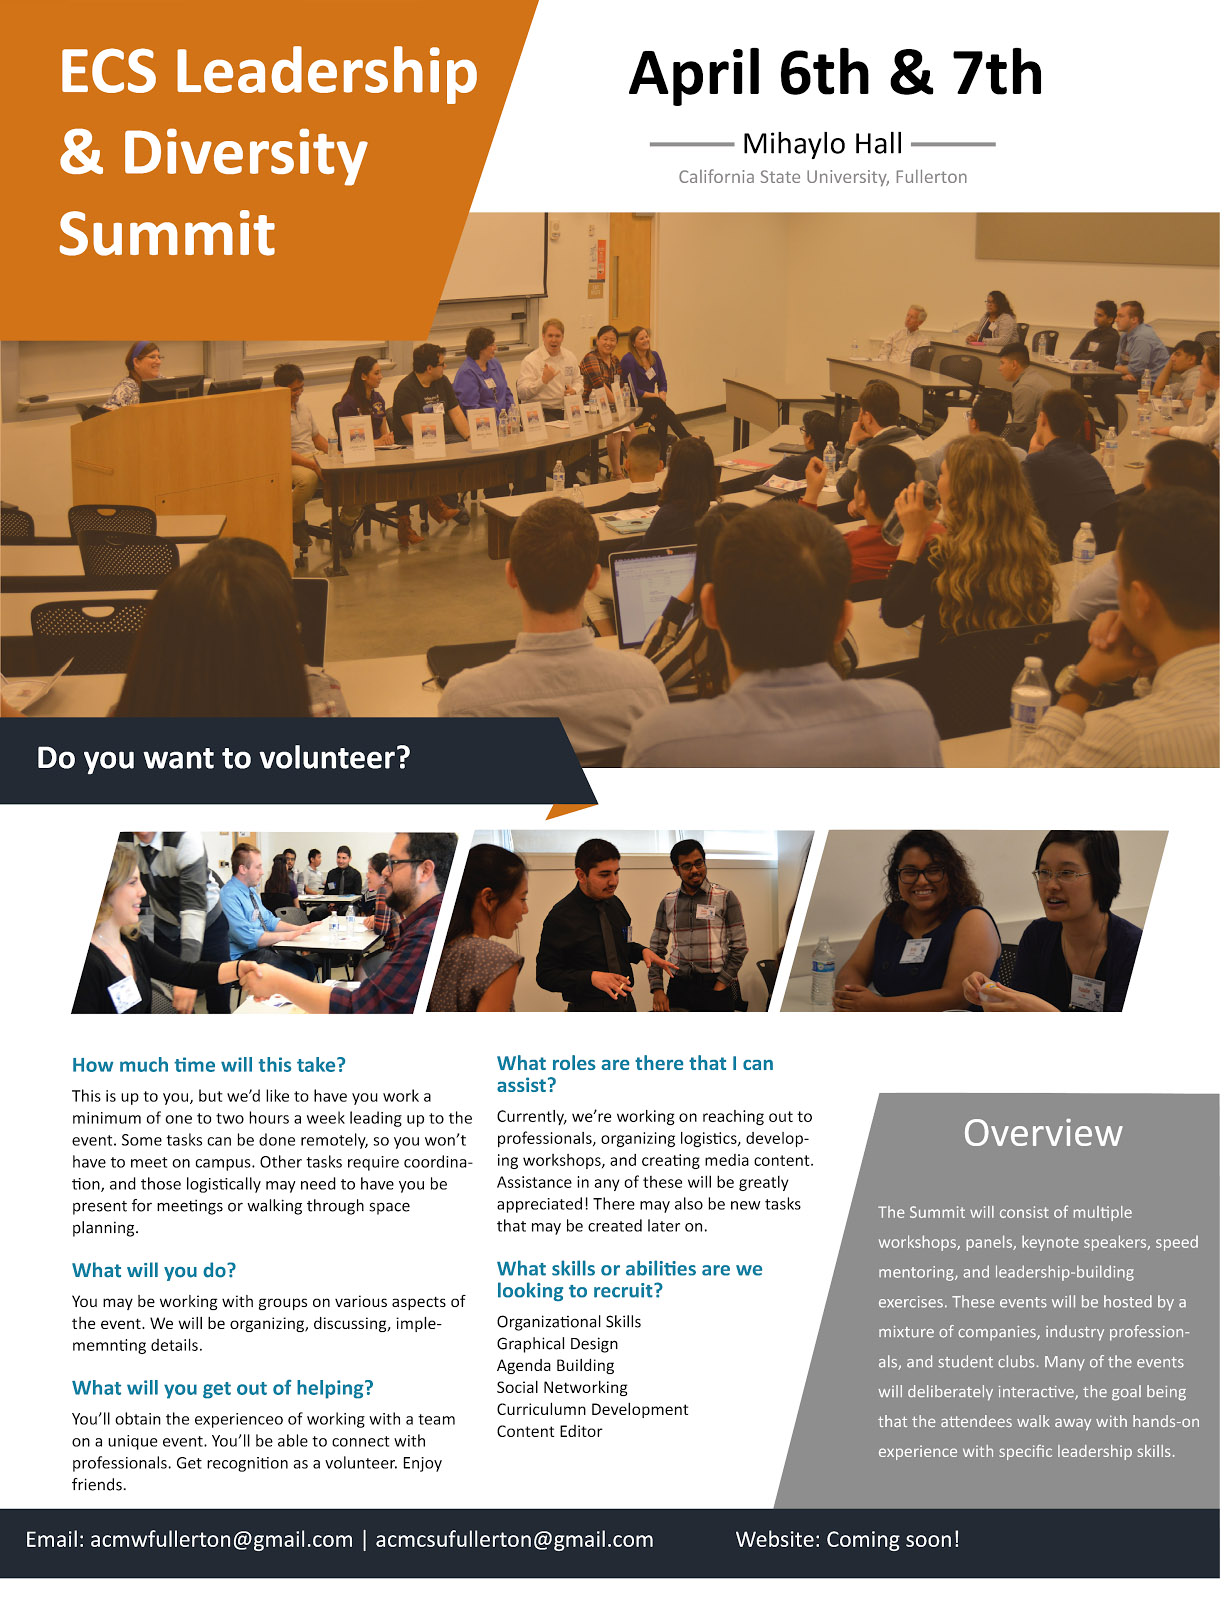
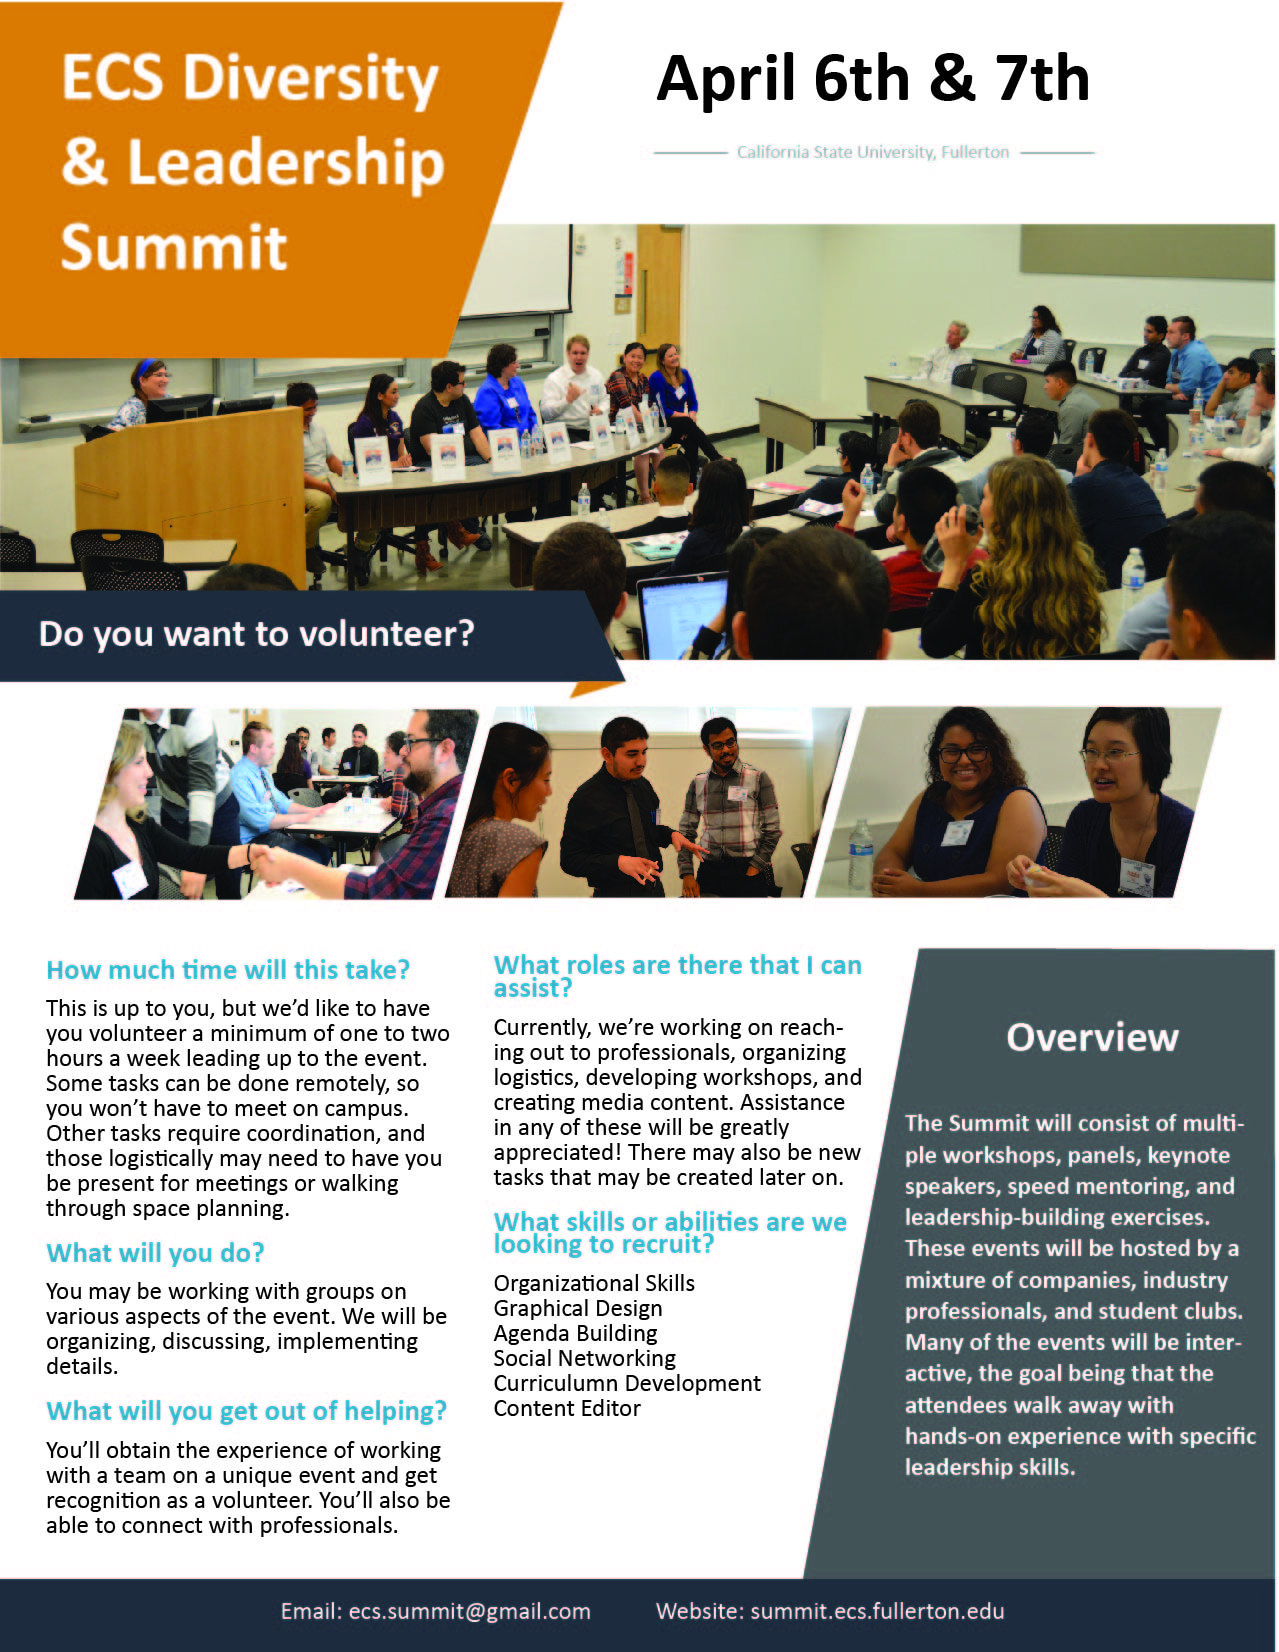
changed L and D to D and L. Replaced Volunteer flyer.

diff --git a/src/containers/home/index.js b/src/containers/home/index.js
@@ -64,7 +64,7 @@ const Home = () => (
         <div className="uk-child-width-1-1@s uk-text-center uk-grid-collapse uk-article" uk-grid="">
     <div>
     <p>
-    <h1 className="uk-article-title uk-light"><span>ECS Leadership and Diversity Summit</span></h1>
+    <h1 className="uk-article-title uk-light"><span>ECS Diversity and Leadership Summit</span></h1>
     </p>
     </div>
     <div style={lineHeightChange}>
@@ -101,7 +101,7 @@ const Home = () => (
 
     <div className="uk-section uk-section-primary uk-padding-large uk-flex uk-flex-middle">
         <div className="uk-text-center uk-margin-large-left@s uk-margin-large-right@s uk-padding-large@s uk-padding-remove-top uk-padding-remove-bottom" style={colorToWhite}>
-            <h4>The ECS Leadership and Diversity Summit is an event to promote diversity and provide students with professional leadership training. The event will be hosted by a mixture of companies, industry professionals and student clubs. Many of the events will be deliberately interactive, the goal being that the attendees walk away with hands-on experience with specific leadership skills.
+            <h4>The ECS Diversity and Leadership Summit is an event to promote diversity and provide students with professional leadership training. The event will be hosted by a mixture of companies, industry professionals and student clubs. Many of the events will be deliberately interactive, the goal being that the attendees walk away with hands-on experience with specific leadership skills.
             </h4>
         </div>
     </div>

diff --git a/src/containers/about/index.js b/src/containers/about/index.js
@@ -20,7 +20,7 @@ const About = () => (
                 <article className="uk-article">
                     <h1 className="uk-article-title">Our History</h1>
                     <img className="uk-align-center uk-align-right@m uk-margin-remove-adjacent" src={Presidents} width="400" alt="Sara and Alvaro (Past Club Presidents)" />
-                        <p className="uk-text-lead">The first Leadership & Diversity Summit was hosted by ACM & ACM-W last year on April 29th, 2017.</p>
+                        <p className="uk-text-lead">The first Diversity & Leadership Summit was hosted by ACM & ACM-W last year on April 29th, 2017.</p>
                         <p>Alvaro Rivera, the former president of Association for Computing Machinery, and Sara Lipowsky the former president of Association for Computing Machinery - Women led a team to design and host this opportunity for students. The purpose was to promote diversity and prepare our students with necessary leadership skills to succeed in the workforce.</p>
                 </article>
             </div>

diff --git a/src/components/footer/index.js b/src/components/footer/index.js
@@ -11,7 +11,7 @@ export const Footer = () => (
         {/*<p><a href="https://www.twitter.com/acmcsuf" aria-label="twitter link" target="_blank" rel="noopener noreferrer" title="@acmcsuf" className="uk-icon-button uk-margin-small-right" uk-icon="icon: twitter"/>*/}
             {/*<a href="https://www.facebook.com/groups/acmcsuf" aria-label="facebook group link" rel="noopener noreferrer" target="_blank" title="/group/acmcsuf" className="uk-icon-button uk-margin-small-right" uk-icon="icon: facebook"/>*/}
             {/*<a href="https://www.instagram.com/acmcsuf" aria-label="instagram link" target="_blank" rel="noopener noreferrer" title="@acmcsuf" className="uk-icon-button uk-margin-small-right" uk-icon="icon: instagram"/></p>*/}
-        <p style={colorToWhite}>ECS Leadership and Diversity Summit | Spring 2018</p>
+        <p style={colorToWhite}>ECS Diversity and Leadership Summit | Spring 2018</p>
         <br />
     </div>
 );

diff --git a/public/index.html b/public/index.html
@@ -12,7 +12,7 @@
     <meta content='width=device-width, initial-scale=1.0, maximum-scale=1.0, user-scalable=0' name='viewport' />
     <meta name="viewport" content="width=device-width" />
 
-    <title>ECS Leadership and Diversity Summit</title>
+    <title>ECS Diversity and Leadership Summit</title>
 
     <script src="https://cdnjs.cloudflare.com/ajax/libs/uikit/3.0.0-beta.38/js/uikit.min.js"></script>
     <script src="https://cdnjs.cloudflare.com/ajax/libs/uikit/3.0.0-beta.38/js/uikit-icons.min.js"></script>
